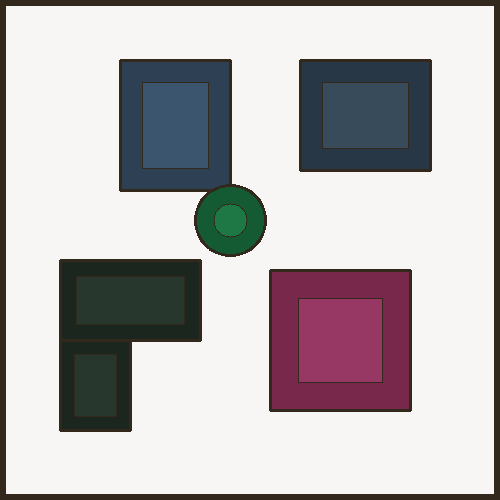
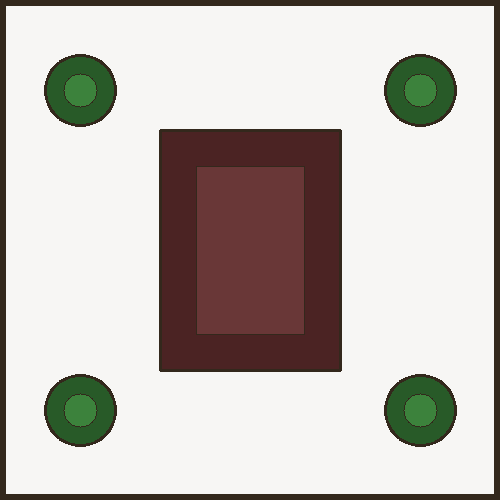
feat: reorder maps by difficulty (easy: block center, medium: circles, hard: complex blocks), optimize reward shaping and hyperparams for fast convergence

diff --git a/uav_env/uav_map_env.py b/uav_env/uav_map_env.py
@@ -25,12 +25,16 @@ class UAVMapEnv(gym.Env):
     ACTION_TURN_RIGHT_HEAVY = 4
 
     DEFAULT_MAP_CONFIGS = {
-        "maps/map_easy.png": {"start": (50.0, 50.0), "goal": (450.0, 450.0)},
-        "maps/map_medium.png": {"start": (50.0, 250.0), "goal": (450.0, 250.0)},
-        "maps/map_hard.png": {"start": (50.0, 50.0), "goal": (450.0, 450.0)},
-        "maps/map_heldout.png": {"start": (50.0, 50.0), "goal": (450.0, 450.0)},
-        "maps/map_urban.png": {"start": (50.0, 50.0), "goal": (450.0, 450.0)},
-        "maps/map_dense.png": {"start": (50.0, 50.0), "goal": (450.0, 450.0)},
+        # map_easy (cũ: map_medium) — 1 hình chữ nhật to chính giữa
+        # Start góc trên trái, Goal góc dưới phải, đường chéo tránh tường
+        "maps/map_easy.png":    {"start": (40.0, 40.0),  "goal": (460.0, 460.0)},
+        # map_medium (cũ: map_hard) — các vòng tròn phân tán
+        "maps/map_medium.png":  {"start": (40.0, 40.0),  "goal": (460.0, 460.0)},
+        # map_hard (cũ: map_easy) — nhiều hình chữ nhật phức tạp
+        "maps/map_hard.png":    {"start": (40.0, 40.0),  "goal": (460.0, 460.0)},
+        "maps/map_heldout.png": {"start": (50.0, 50.0),  "goal": (450.0, 450.0)},
+        "maps/map_urban.png":   {"start": (50.0, 50.0),  "goal": (450.0, 450.0)},
+        "maps/map_dense.png":   {"start": (50.0, 50.0),  "goal": (450.0, 450.0)},
     }
 
     def __init__(self, map_path="maps/map_easy.png", fixed_start_goal=True, render_mode=None, max_steps=500, speed=4.0, max_range=150.0):
@@ -270,13 +274,23 @@ class UAVMapEnv(gym.Env):
             outcome = "success"
             self.last_action_str += " (GOAL REACHED! THẮNG)"
         else:
-            shaping_reward = 1.5 * (prev_dist - current_dist)
+            # 1. Distance shaping reward: thưởng tiến lại gần đích
+            shaping_reward = 2.0 * (prev_dist - current_dist)
             reward += shaping_reward
 
+            # 2. Heading alignment reward: thưởng khi quay đầu về phía đích
+            dx_g = self.goal_pos[0] - new_x
+            dy_g = self.goal_pos[1] - new_y
+            angle_to_g = math.atan2(dy_g, dx_g)
+            rel_a = math.atan2(math.sin(angle_to_g - self.heading), math.cos(angle_to_g - self.heading))
+            reward += 0.2 * math.cos(rel_a)
+
+            # 3. Phạt nguy hiểm khi áp sát vật cản
             if min_lidar < 15.0:
                 reward -= 0.5
 
-            reward -= 0.2
+            # 4. Phạt bước thời gian
+            reward -= 0.1
 
         if self.current_step >= self.max_steps and not terminated:
             truncated = True

diff --git a/train_dqn.py b/train_dqn.py
@@ -61,18 +61,18 @@ LOG_CSV  = os.path.join(LOG_DIR, "train_log.csv")
 BEST_MODEL_PATH = os.path.join(MODEL_DIR, "dqn_best")
 FINAL_MODEL_PATH = os.path.join(MODEL_DIR, "dqn_final")
 
-# Hyperparameters (yêu cầu đề bài)
+# Hyperparameters tối ưu cho UAV Path Planning
 HYPERPARAMS = dict(
-    learning_rate=1e-4,
+    learning_rate=3e-4,
     buffer_size=100_000,
-    learning_starts=5_000,
-    batch_size=64,
+    learning_starts=2_000,
+    batch_size=128,
     gamma=0.99,
     train_freq=4,
-    target_update_interval=1_000,
-    exploration_fraction=0.3,
+    target_update_interval=500,
+    exploration_fraction=0.25,
     exploration_initial_eps=1.0,
-    exploration_final_eps=0.05,
+    exploration_final_eps=0.02,
     max_grad_norm=10,
     policy_kwargs=dict(net_arch=[256, 256]),
 )
@@ -413,10 +413,10 @@ def main():
 
     # ── Khởi tạo môi trường ──────────────────────────────────────
     print(f"\n[Setup] Khởi tạo training env: {TRAIN_MAPS[0]}")
-    train_env = make_env(TRAIN_MAPS[0], fixed_start_goal=False, seed=SEED)
+    train_env = make_env(TRAIN_MAPS[0], fixed_start_goal=True, seed=SEED)
 
     print(f"[Setup] Khởi tạo eval env: {EVAL_MAP}")
-    eval_env = make_env(EVAL_MAP, fixed_start_goal=False, seed=SEED + 1)
+    eval_env = make_env(EVAL_MAP, fixed_start_goal=True, seed=SEED + 1)
 
     # ── Khởi tạo model DQN ──────────────────────────────────────
     print("\n[Setup] Khởi tạo DQN model...")

diff --git a/environment_description.md b/environment_description.md
@@ -70,9 +70,9 @@ Hàm thưởng được thiết kế dạng **Reward Shaping** để định hư
 
 | Giai đoạn | Tên File Bản Đồ | Độ khó | Đặc điểm chướng ngại vật & Kỹ năng huấn luyện chính |
 | :---: | :--- | :---: | :--- |
-| **Stage 1** | [`maps/map_1.png`](file:///d:/University%20Course/RL%20N%C3%A2ng%20Cao/project%20RL/maps/map_1.png) *(map_easy)* | **Dễ** | Vật cản thưa, phân bố đối xứng. Giúp UAV học định hướng đích và duy trì bay thẳng cơ bản. |
-| **Stage 2** | [`maps/map_3.png`](file:///d:/University%20Course/RL%20N%C3%A2ng%20Cao/project%20RL/maps/map_3.png) *(map_medium)* | **Trung bình** | Vật cản chắn ngang giữa hành lang. Bắt buộc UAV đưa ra ra quyết định chọn luồng lách (Ngoặt trái/phải). |
-| **Stage 3** | [`maps/map_4.png`](file:///d:/University%20Course/RL%20N%C3%A2ng%20Cao/project%20RL/maps/map_4.png) / [`map_5.png`](file:///d:/University%20Course/RL%20N%C3%A2ng%20Cao/project%20RL/maps/map_5.png) *(map_hard)* | **Khó** | Hẻm nhỏ + chùm vật cản phức hợp mật độ cao. Huấn luyện phản xạ bay sát tường và né tránh nguy hiểm. |
+| **Stage 1** | [`maps/map_easy.png`](file:///d:/University%20Course/RL%20N%C3%A2ng%20Cao/project%20RL/maps/map_easy.png) | **Dễ** | 1 khối chướng ngại vật chữ nhật chính giữa + 4 trụ góc. Giúp UAV dễ dàng học đường bay vòng 2 bên lách tới đích. |
+| **Stage 2** | [`maps/map_medium.png`](file:///d:/University%20Course/RL%20N%C3%A2ng%20Cao/project%20RL/maps/map_medium.png) | **Trung bình** | Các trụ tròn phân tán. Bắt buộc UAV đưa ra quyết định chọn luồng lách (Ngoặt trái/phải). |
+| **Stage 3** | [`maps/map_hard.png`](file:///d:/University%20Course/RL%20N%C3%A2ng%20Cao/project%20RL/maps/map_hard.png) | **Khó** | Nhiều chướng ngại vật hình chữ nhật phức hợp bố trí so le. Huấn luyện phản xạ bay sát tường và lách khe chật hẹp. |
 
 ---
 
@@ -82,9 +82,9 @@ Các bản đồ này **KHÔNG** dùng trong quá trình huấn luyện, chỉ p
 
 | Tên Bản Đồ | Đặc điểm môi trường | Mục đích kiểm thử |
 | :--- | :--- | :--- |
-| [`maps/map_heldout.png`](file:///d:/University%20Course/RL%20N%C3%A2ng%20Cao/project%20RL/maps/map_heldout.png) | **Bản đồ Test Độc Lập**: Thiết kế hoàn toàn mới không trùng lặp với 3 map train. | Đánh giá khả năng Zero-shot Generalization của agent đã học. |
-| [`maps/map_urban.png`](file:///d:/University%20Course/RL%20N%C3%A2ng%20Cao/project%20RL/maps/map_urban.png) | **Môi trường Đô thị**: Các khối nhà hình chữ nhật mật độ cao mô phỏng quy hoạch đô thị. | Kiểm thử phản xạ cảm biến LiDAR trong không gian hẹp phức tạp. |
-| [`maps/map_dense.png`](file:///d:/University%20Course/RL%20N%C3%A2ng%20Cao/project%20RL/maps/map_dense.png) | **Môi trường Mật độ dày**: Các khoảng trống hẹp giữa chùm vật cản. | Kiểm thử phản xạ áp sát chướng ngại vật khẩn cấp. |
+| [`maps/map_heldout.png`](file:///d:/University%20Course/RL%20N%C3%A2ng%20Cao/project%20RL/maps/map_heldout.png) | **Bản đồ Test Độc Lập**: Thiết kế các khe dầm dài không trùng lặp với 3 map train. | Đánh giá khả năng Zero-shot Generalization của agent đã học. |
+| [`maps/map_urban.png`](file:///d:/University%20Course/RL%20N%C3%A2ng%20Cao/project%20RL/maps/map_urban.png) | **Môi trường Đô thị**: Các khối nhà hình chữ nhật mô phỏng quy hoạch đô thị. | Kiểm thử phản xạ cảm biến LiDAR trong không gian hẹp phức tạp. |
+| [`maps/map_dense.png`](file:///d:/University%20Course/RL%20N%C3%A2ng%20Cao/project%20RL/maps/map_dense.png) | **Môi trường Mật độ dày**: Các ô lưới chướng ngại vật chật hẹp. | Kiểm thử phản xạ áp sát chướng ngại vật khẩn cấp. |
 
 
 ---
